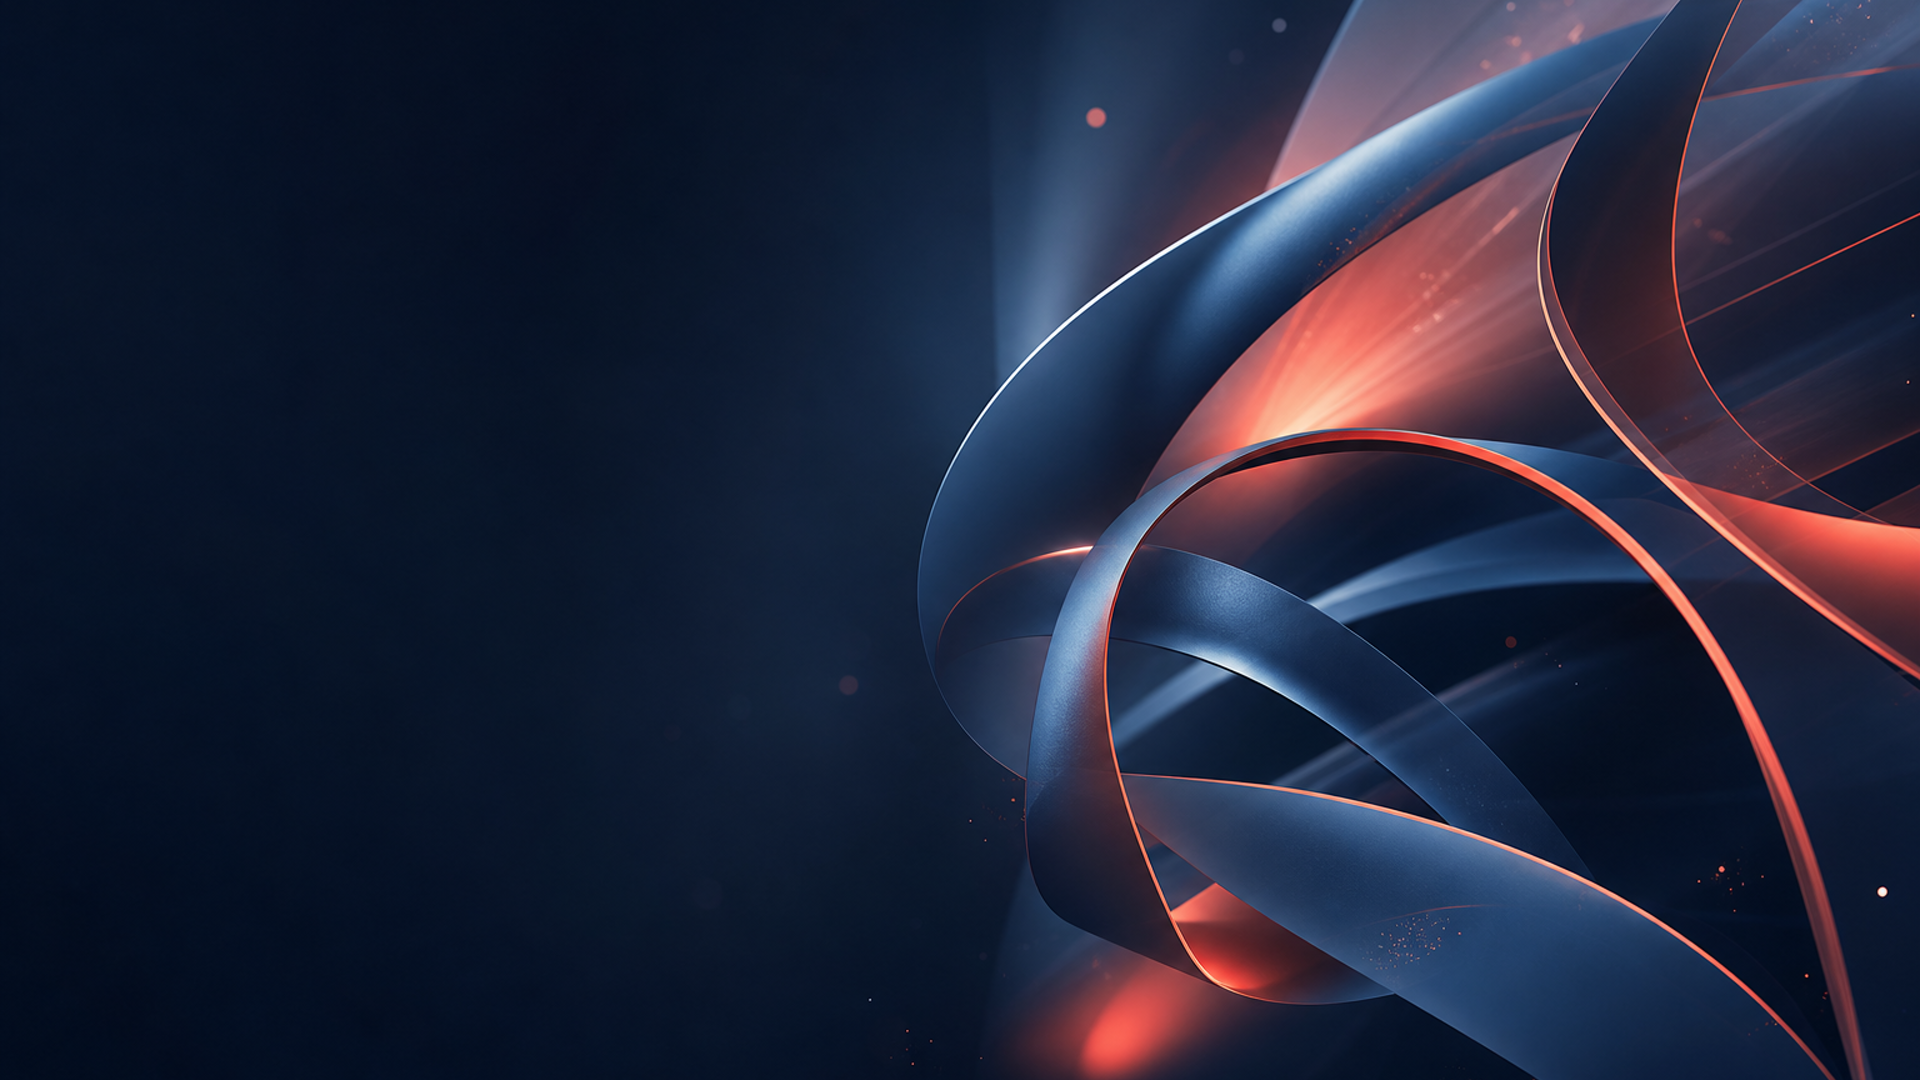
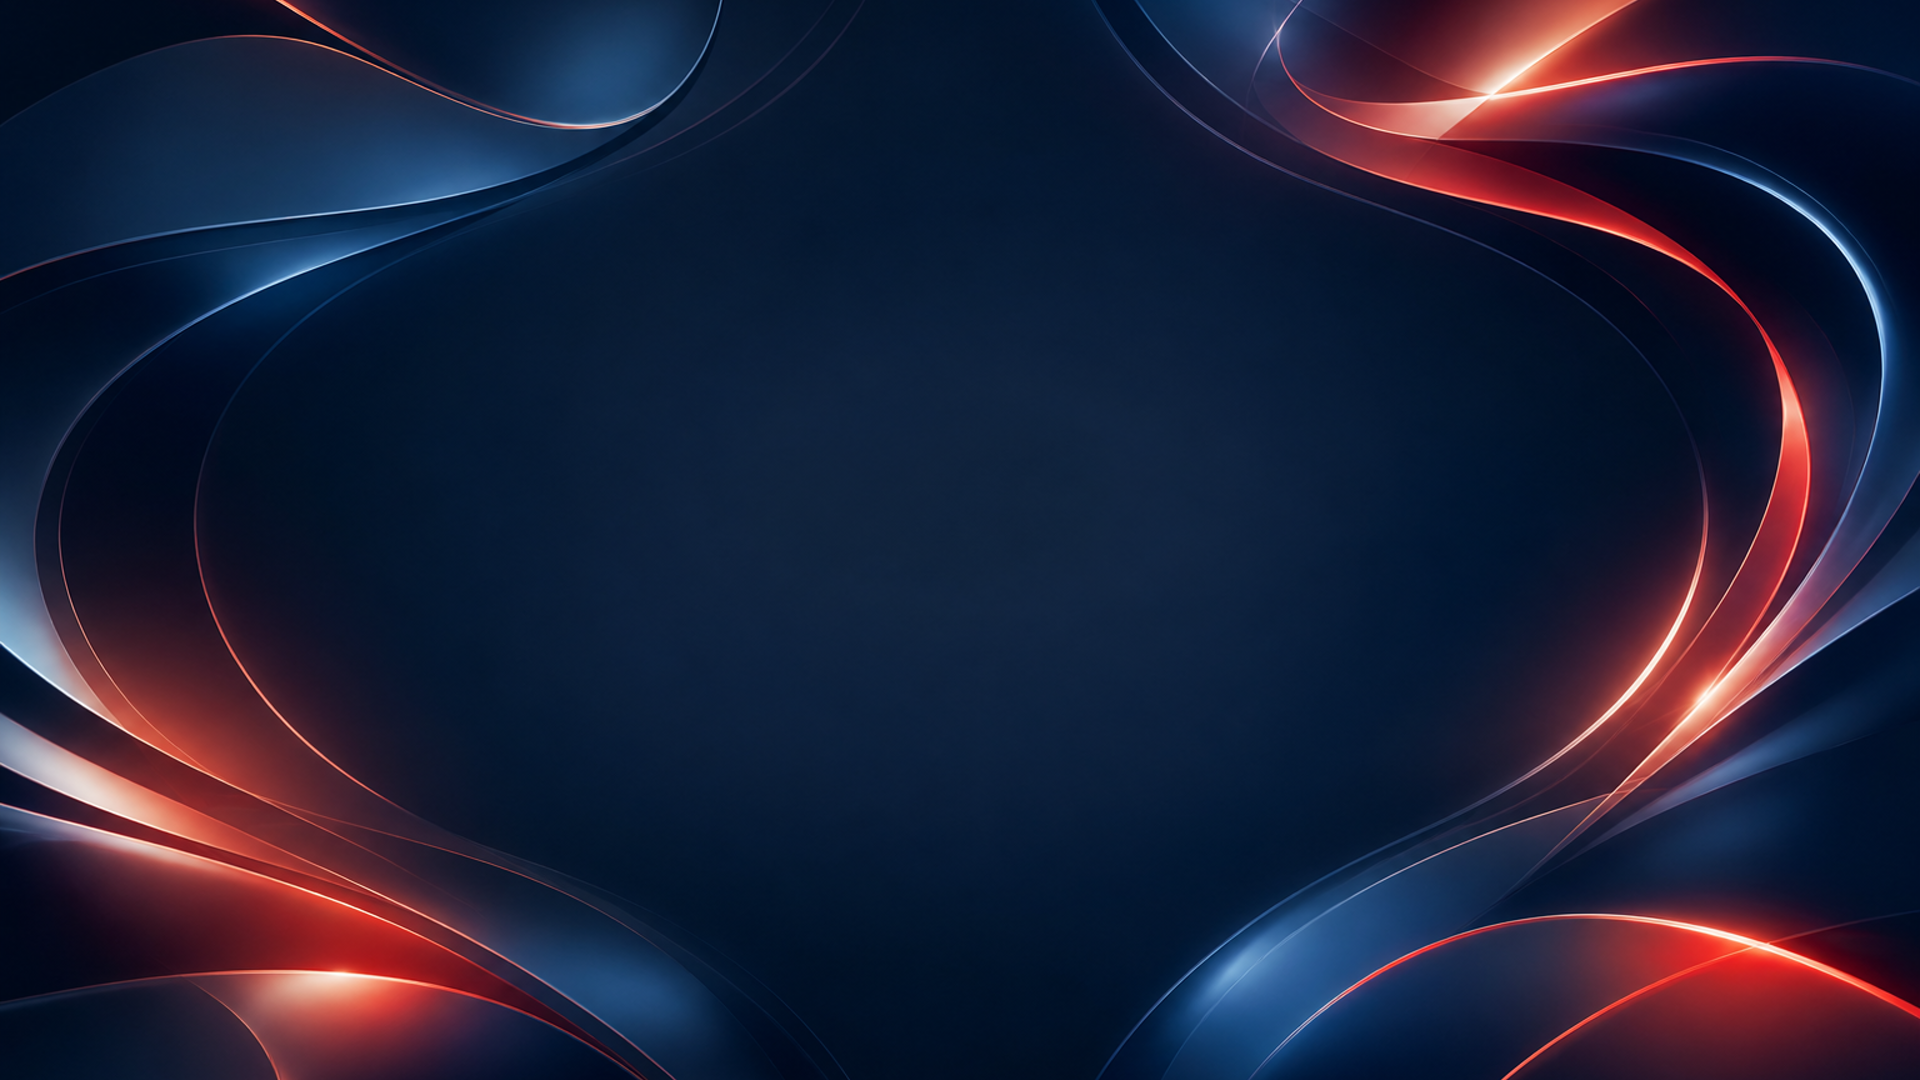
Center hero background and overlay text directly on image
Regenerate the hero asset with a centered vignette composition — visual
ribbons frame the edges while the middle stays clean for typography.
Update the hero layout to center all copy on the image with white text,
object-center positioning, and a subtle radial overlay for readability.

diff --git a/components/hero-section.tsx b/components/hero-section.tsx
@@ -35,61 +35,60 @@ const proofPoints: ProofPoint[] = [
 
 export function HeroSection() {
   return (
-    <section className="relative min-h-screen overflow-hidden bg-[#0B1F3A] text-[#1A2332]">
+    <section className="relative min-h-screen overflow-hidden bg-[#0B1F3A] text-[#F4F6F9]">
       <Image
         src="/hero-background-enterprise.png"
         alt=""
         fill
         priority
         sizes="100vw"
-        className="object-cover object-right"
+        className="object-cover object-center"
         aria-hidden="true"
       />
 
       <div
-        className="pointer-events-none absolute inset-0 bg-[linear-gradient(90deg,rgba(244,246,249,0.95)_0%,rgba(244,246,249,0.82)_34%,rgba(11,31,58,0.22)_50%,rgba(11,31,58,0)_72%)]"
+        className="pointer-events-none absolute inset-0 bg-[radial-gradient(ellipse_at_center,rgba(11,31,58,0.35)_0%,rgba(11,31,58,0.08)_45%,transparent_70%)]"
         aria-hidden="true"
       />
 
       <div className="relative mx-auto flex min-h-screen w-full max-w-7xl flex-col px-6 py-8 sm:px-8 lg:px-10">
-
         <header className="relative z-10 flex items-center justify-between">
           <a
             href="#top"
-            className="inline-flex items-center gap-3 rounded-full border border-[#0B1F3A]/10 bg-[#F4F6F9]/80 px-3 py-2 text-sm font-semibold tracking-tight text-[#0B1F3A] shadow-[0_16px_40px_rgba(11,31,58,0.08)] backdrop-blur"
+            className="inline-flex items-center gap-3 rounded-full border border-[#F4F6F9]/15 bg-[#0B1F3A]/40 px-3 py-2 text-sm font-semibold tracking-tight text-[#F4F6F9] shadow-[0_16px_40px_rgba(11,31,58,0.24)] backdrop-blur"
             aria-label="Apex Vector home"
           >
-            <span className="flex size-9 items-center justify-center rounded-full bg-[#0B1F3A] text-[#F4F6F9]">
+            <span className="flex size-9 items-center justify-center rounded-full bg-[#E85D4C] text-[#F4F6F9]">
               AV
             </span>
             Apex Vector
           </a>
-          <div className="hidden items-center gap-2 rounded-full border border-[#0B1F3A]/10 bg-[#F4F6F9]/70 px-4 py-2 text-sm font-medium text-[#3D5A73] shadow-[0_16px_40px_rgba(11,31,58,0.06)] backdrop-blur md:flex">
+          <div className="hidden items-center gap-2 rounded-full border border-[#F4F6F9]/15 bg-[#0B1F3A]/40 px-4 py-2 text-sm font-medium text-[#F4F6F9]/80 shadow-[0_16px_40px_rgba(11,31,58,0.2)] backdrop-blur md:flex">
             <Sparkles className="size-4 text-[#E85D4C]" aria-hidden="true" />
             Performance-backed growth partners
           </div>
         </header>
 
-        <div className="relative z-10 flex flex-1 items-center py-14 lg:py-10">
-          <div className="mx-auto max-w-2xl text-center motion-safe:animate-in motion-safe:fade-in motion-safe:slide-in-from-bottom-4 motion-safe:duration-700 lg:mx-0 lg:max-w-[45%] lg:text-left">
-            <div className="mb-7 inline-flex items-center gap-2 rounded-full border border-[#0B1F3A]/10 bg-[#F4F6F9]/90 px-4 py-2 text-sm font-semibold text-[#0B1F3A] shadow-[0_18px_48px_rgba(11,31,58,0.08)] backdrop-blur">
+        <div className="relative z-10 flex flex-1 items-center justify-center py-14 lg:py-10">
+          <div className="mx-auto max-w-4xl text-center motion-safe:animate-in motion-safe:fade-in motion-safe:slide-in-from-bottom-4 motion-safe:duration-700">
+            <div className="mb-7 inline-flex items-center gap-2 rounded-full border border-[#F4F6F9]/15 bg-[#0B1F3A]/45 px-4 py-2 text-sm font-semibold text-[#F4F6F9] shadow-[0_18px_48px_rgba(11,31,58,0.24)] backdrop-blur">
               <ShieldCheck className="size-4 text-[#E85D4C]" aria-hidden="true" />
               Enterprise outsourcing built around accountability
             </div>
 
-            <h1 className="text-balance text-5xl font-bold leading-[0.95] tracking-[-0.055em] text-[#0B1F3A] sm:text-6xl lg:text-7xl">
+            <h1 className="text-balance text-5xl font-bold leading-[0.95] tracking-[-0.055em] text-[#F4F6F9] sm:text-6xl lg:text-7xl">
               Built for{" "}
               <span className="relative inline-block text-[#E85D4C]">
                 outcomes
                 <span
-                  className="absolute -bottom-1 left-1/2 h-2 w-[94%] -translate-x-1/2 rounded-full bg-[#E85D4C]/20"
+                  className="absolute -bottom-1 left-1/2 h-2 w-[94%] -translate-x-1/2 rounded-full bg-[#E85D4C]/25"
                   aria-hidden="true"
                 />
               </span>
               . Not hours.
             </h1>
 
-            <p className="mx-auto mt-7 max-w-2xl text-pretty text-lg leading-8 text-[#3D5A73] sm:text-xl lg:mx-0">
+            <p className="mx-auto mt-7 max-w-2xl text-pretty text-lg leading-8 text-[#F4F6F9]/75 sm:text-xl">
               Apex Vector helps enterprise teams scale faster with vetted global
               specialists, measurable delivery targets, and AI-assisted
               workflows engineered to improve performance from day one.
@@ -102,7 +101,7 @@ export function HeroSection() {
                 return (
                   <div
                     key={item.label}
-                    className="flex items-center justify-center gap-2 rounded-2xl border border-[#0B1F3A]/10 bg-[#F4F6F9]/70 px-4 py-3 text-sm font-semibold text-[#1A2332] shadow-[0_16px_40px_rgba(11,31,58,0.06)] backdrop-blur lg:justify-start"
+                    className="flex items-center justify-center gap-2 rounded-2xl border border-[#F4F6F9]/12 bg-[#0B1F3A]/40 px-4 py-3 text-sm font-semibold text-[#F4F6F9] shadow-[0_16px_40px_rgba(11,31,58,0.2)] backdrop-blur"
                   >
                     <Icon className="size-4 text-[#E85D4C]" aria-hidden="true" />
                     <span>{item.label}</span>
@@ -111,11 +110,11 @@ export function HeroSection() {
               })}
             </div>
 
-            <div className="mt-10 flex flex-col items-center gap-4 sm:flex-row sm:justify-center lg:justify-start">
+            <div className="mt-10 flex flex-col items-center justify-center gap-4 sm:flex-row">
               <Button
                 asChild
                 size="lg"
-                className="h-14 w-full rounded-full bg-[#E85D4C] px-7 text-base font-bold text-[#F4F6F9] shadow-[0_20px_46px_rgba(232,93,76,0.28)] hover:bg-[#0B1F3A] hover:text-[#F4F6F9] focus-visible:ring-[#E85D4C]/35 sm:w-auto"
+                className="h-14 w-full rounded-full bg-[#E85D4C] px-7 text-base font-bold text-[#F4F6F9] shadow-[0_20px_46px_rgba(232,93,76,0.35)] hover:bg-[#F4F6F9] hover:text-[#0B1F3A] focus-visible:ring-[#E85D4C]/35 sm:w-auto"
               >
                 <a href="#book-strategy-call" aria-label="Book a strategy call">
                   Book a Strategy Call
@@ -126,7 +125,7 @@ export function HeroSection() {
                 asChild
                 variant="outline"
                 size="lg"
-                className="h-14 w-full rounded-full border-[#0B1F3A]/20 bg-[#F4F6F9]/65 px-7 text-base font-bold text-[#0B1F3A] shadow-[0_18px_42px_rgba(11,31,58,0.08)] hover:border-[#E85D4C] hover:bg-[#F4F6F9] hover:text-[#0B1F3A] focus-visible:ring-[#E85D4C]/35 sm:w-auto"
+                className="h-14 w-full rounded-full border-[#F4F6F9]/25 bg-[#0B1F3A]/35 px-7 text-base font-bold text-[#F4F6F9] shadow-[0_18px_42px_rgba(11,31,58,0.2)] backdrop-blur hover:border-[#E85D4C] hover:bg-[#0B1F3A]/55 hover:text-[#F4F6F9] focus-visible:ring-[#E85D4C]/35 sm:w-auto"
               >
                 <a href="#how-it-works">See How It Works</a>
               </Button>
@@ -135,13 +134,13 @@ export function HeroSection() {
         </div>
 
         <div className="relative z-10 pb-8">
-          <dl className="grid overflow-hidden rounded-[2rem] border border-[#0B1F3A]/10 bg-[#0B1F3A] shadow-[0_30px_80px_rgba(11,31,58,0.22)] sm:grid-cols-2 lg:grid-cols-4">
+          <dl className="mx-auto grid max-w-5xl overflow-hidden rounded-[2rem] border border-[#F4F6F9]/12 bg-[#0B1F3A]/55 shadow-[0_30px_80px_rgba(11,31,58,0.32)] backdrop-blur sm:grid-cols-2 lg:grid-cols-4">
             {trustMetrics.map((metric) => (
               <div
                 key={metric.label}
                 className="border-b border-[#F4F6F9]/10 px-6 py-6 text-center last:border-b-0 sm:border-r sm:last:border-r-0 lg:border-b-0"
               >
-                <dt className="text-sm font-semibold uppercase tracking-[0.18em] text-[#F4F6F9]/70">
+                <dt className="text-sm font-semibold uppercase tracking-[0.18em] text-[#F4F6F9]/65">
                   {metric.label}
                 </dt>
                 <dd className="mt-2 text-3xl font-bold tracking-[-0.04em] text-[#F4F6F9]">